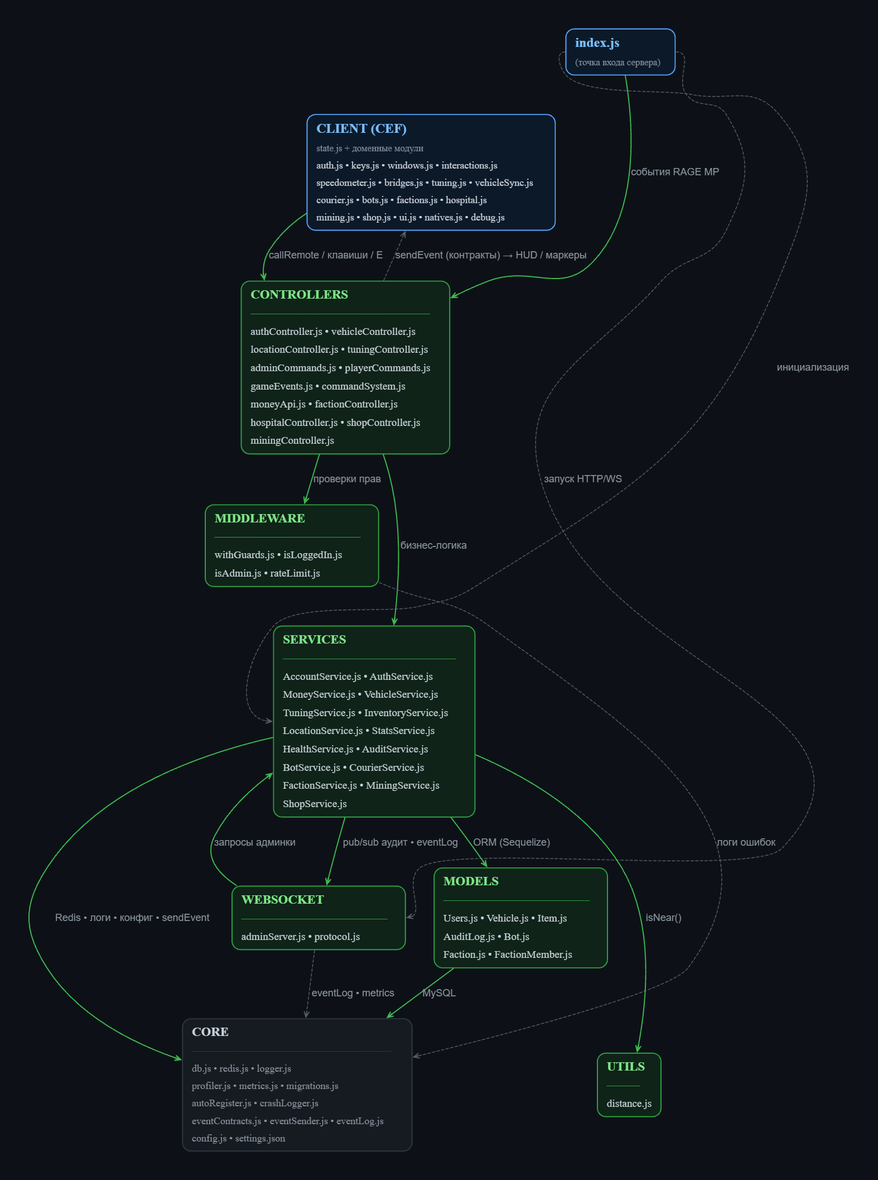
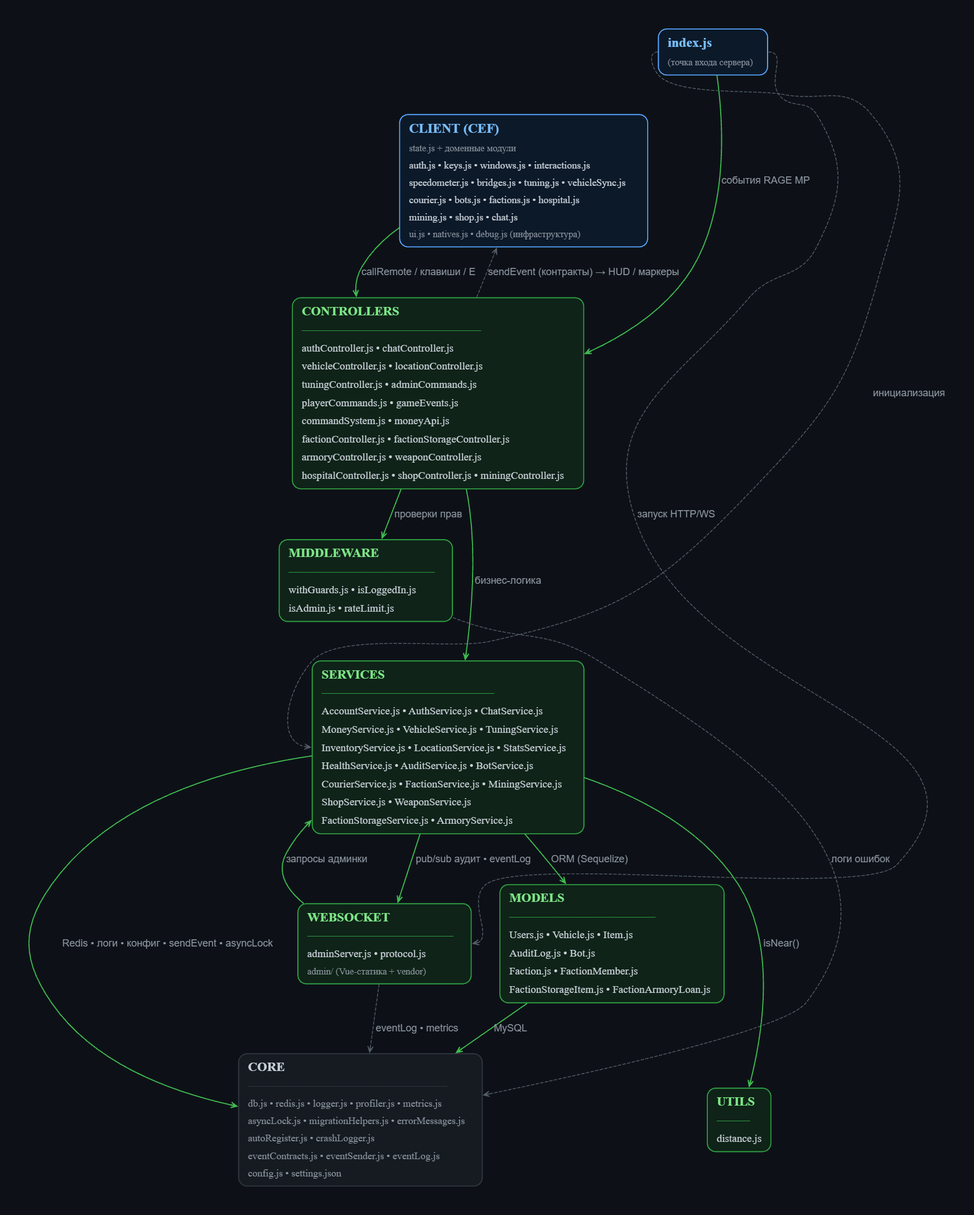
docs: обновление архитектуры, графы и README для релиза v1.16.0 + скрины

diff --git a/client_packages/factions.js b/client_packages/factions.js
@@ -27,11 +27,11 @@ mp.events.add('client:faction:open', () => {
 });
 
 mp.events.add('client:faction:moneyResult', (success, errorOrKind) => {
-    notify(String(
-        success
-            ? '!{#4CAF50}Операция с кассой выполнена.'
-            : `!{#FF3333}Ошибка: ${errorOrKind}`
-    ));
+    notify(
+        String(
+            success ? '!{#4CAF50}Операция с кассой выполнена.' : `!{#FF3333}Ошибка: ${errorOrKind}`
+        )
+    );
 });
 
 mp.events.add('client:faction:memberResult', (success, message) => {

diff --git a/docs/architecture.md b/docs/architecture.md
@@ -10,7 +10,7 @@
 ## Обзор слоёв
 
 ```text
-client_packages (мосты, клавиши, маркеры)
+client_packages (мосты, клавиши, маркеры, чат)
 ↕  mp.events / callRemote
 controllers (тонкие обработчики)   ←   middleware (guards, rate-limit)
 ↓
@@ -18,42 +18,43 @@ services (бизнес-логика)           ←   websocket/adminServer (ад
 ↓
 models (Sequelize, ленивая инициализация)
 ↓
-MySQL ← core/db   •   Redis ← core/redis
+MySQL ← core/db   •   Redis ← core/redis   •   asyncLock ← core/asyncLock
 ```
 
 ## Сервер
 
-### `controllers/` — тонкие обработчики (16 файлов)
+### `controllers/` — тонкие обработчики (17 файлов)
 
-| Файл                          | Ответственность                                                |
-| ----------------------------- | -------------------------------------------------------------- |
-| `commandSystem.js`            | диспетчер команд: `registerCommand` + `playerCommand`          |
-| `moneyApi.js`                 | денежные методы `mp.Player` (БД + память + HUD)                |
-| `authController.js`           | вход/регистрация, выход с сохранением                          |
-| `gameEvents.js`               | события игрока: смерть, курьер, статистика                     |
-| `playerCommands.js`           | `/pay`, `/kill`, `/endwork`                                    |
-| `adminCommands.js`            | 10 админ-команд (`/checkban` … `/bench`)                       |
-| `vehicleController.js`        | покупка, спавн, заправка                                       |
-| `locationController.js`       | семья `*:requestPos` — координаты 5 локаций                    |
-| `tuningController.js`         | LSC: вход в зону, покупка, выход                               |
-| `factionController.js`        | фракции: запрос инфо, касса                                    |
-| `factionStorageController.js` | семейный склад: deposit/withdraw с проверкой ранга и дистанции |
-| `armoryController.js`         | семейный арсенал: займы стволов из склада семьи                |
-| `weaponController.js`         | оружие: `/gun`, `/holster`, `/guns`, перезарядка по R          |
-| `hospitalController.js`       | лечение в больнице                                             |
-| `shopController.js`           | магазин: конфиг и покупка                                      |
-| `miningController.js`         | шахта: камни, добыча, продажа руды                             |
+| Файл                          | Ответственность                                                                                       |
+| ----------------------------- | ----------------------------------------------------------------------------------------------------- |
+| `commandSystem.js`            | диспетчер команд: `registerCommand` + `dispatchCommand` + `visibleCommands`                           |
+| `moneyApi.js`                 | денежные методы `mp.Player` (БД + память + HUD)                                                       |
+| `authController.js`           | вход/регистрация, выход с сохранением, per-instance `outputChatBox`, `miningService.endWork` при quit |
+| `chatController.js`           | кастомный чат: каналы, `/help`, `/a`, роутинг `outputChatBox` (лента/toast)                           |
+| `gameEvents.js`               | события игрока: смерть, курьер, статистика                                                            |
+| `playerCommands.js`           | `/pay`, `/kill`, `/endwork`                                                                           |
+| `adminCommands.js`            | 10 админ-команд (`/checkban` … `/bench`)                                                              |
+| `vehicleController.js`        | покупка, спавн, заправка                                                                              |
+| `locationController.js`       | семья `*:requestPos` — координаты 5 локаций                                                           |
+| `tuningController.js`         | LSC: вход в зону, покупка, выход                                                                      |
+| `factionController.js`        | фракции: запрос инфо, касса, `/fam`                                                                   |
+| `factionStorageController.js` | семейный склад: deposit/withdraw с проверкой ранга и дистанции                                        |
+| `armoryController.js`         | семейный арсенал: займы стволов из склада семьи                                                       |
+| `weaponController.js`         | оружие: `/gun`, `/holster`, `/guns`, перезарядка по R                                                 |
+| `hospitalController.js`       | лечение в больнице                                                                                    |
+| `shopController.js`           | магазин: конфиг и покупка                                                                             |
+| `miningController.js`         | шахта: камни, добыча, продажа руды                                                                    |
 
 ### `middleware/` — проверки прав и error boundary (4)
 
 - `withGuards` — цепочка проверок + единый error boundary
 - `isLoggedIn`, `isAdmin` — фабрики guard'ов
-- `rateLimit` — Redis-счётчики, fail open, коалесценция нарушений через AuditService
+- `rateLimit` — Redis-счётчики, fail open, коалесценция нарушений через AuditService; предупреждение уходит в bottom-toast (`{ toast: true }`)
 
-### `services/` — бизнес-логика (18)
+### `services/` — бизнес-логика (19)
 
-Account, Auth, Money, Vehicle, Tuning, Inventory, Location, Stats, Health, Audit, Bot, Courier, Faction, FactionStorage, Armory, Mining, Shop, Weapon.
-Сервисы не знают про `mp.*`, кроме осознанных game-world сервисов (Vehicle, Tuning, Bot, Courier) — это помечено в их шапках.
+Account, Auth, Money, Vehicle, Tuning, Inventory, Location, Stats, Health, Audit, Bot, Courier, Faction, FactionStorage, Armory, Mining, Shop, Weapon, **Chat**.
+Сервисы не знают про `mp.*`, кроме осознанных game-world сервисов (Vehicle, Tuning, Bot, Courier) — это помечено в их шапках. `ChatService` рассылает по каналам и разделяет ленту (`pushSystem`) и bottom-toast (`notify`).
 
 ### `models/` — Sequelize-модели, ленивые геттеры (9)
 
@@ -62,17 +63,20 @@ Users, Item, Vehicle, AuditLog, Bot, Faction, FactionMember, FactionStorageItem,
 `FactionStorageItem` — слоты семейного склада: `faction_id → factions.id` (CASCADE), предмет + количество + слот; удаление семьи очищает склад автоматически.
 `FactionArmoryLoan` — займы арсенала: `faction_id + account_id + item_id` (уникальный), количество + дата выдачи; CASCADE по семье и аккаунту.
 
-### Миграции (5)
+### Миграции (7)
 
 `001-initial-schema` (accounts, items, vehicles, audit_logs, bots),  
 `002-factions` (factions, faction_members),  
 `003-ensure-legacy-indexes`,  
 `004-faction-storage` (faction_storage_items),  
-`005-faction-armory` (faction_armory_loans).
+`005-faction-armory` (faction_armory_loans),  
+`006` — `UNIQUE(owner_id, slot)` в `items` (защита от дубля слота при гонке),  
+`007` — `UNIQUE(faction_id, slot)` в `faction_storage_items` через `ensureUniqueIndexGuarded`.  
+Все миграции идут через общий `core/migrationHelpers.js` (`ensureIndex`/`ensureUniqueIndexGuarded` идемпотентны, читают `information_schema`).
 
-### `core/` — инфраструктура: БД, кэш, логи, замеры, события
+### `core/` — инфраструктура: БД, кэш, логи, замеры, события, блокировки
 
-`db.js` (пул + initDB), `redis.js` (singleton), `logger.js` (асинхронный, combined/error), `profiler.js` (`perf_hooks`), `eventContracts.js` (контракты событий сервер→клиент с типами аргументов), `eventSender.js` (валидация + логирование), `eventLog.js` (кольцевой буфер 200 записей для админки).
+`db.js` (пул + initDB), `redis.js` (singleton), `logger.js` (асинхронный, combined/error), `profiler.js` (`perf_hooks`), `metrics.js` (Prometheus-exporter), `eventContracts.js` (контракты событий сервер→клиент с типами аргументов), `eventSender.js` (валидация + логирование), `eventLog.js` (кольцевой буфер 200 записей для админки), `autoRegister.js`, `crashLogger.js`, **`asyncLock.js`** (ключевой async-мьютекс: очередь по key, разные ключи параллельно), **`migrationHelpers.js`** (`ensureIndex`/`ensureUniqueIndexGuarded`), **`errorMessages.js`** (`humanizeError` — маппинг машинных кодов ошибок в читаемый текст).
 
 ## Клиентская инфраструктура событий
 
@@ -89,27 +93,36 @@ Users, Item, Vehicle, AuditLog, Bot, Faction, FactionMember, FactionStorageItem,
 ## Клиент (`client_packages/`)
 
 - `state.js` — общее состояние в `globalThis.UIState` (в клиенте RAGE MP нет `module.exports`)
-- 14 доменных модулей: `auth`, `keys`, `windows`, `interactions`, `speedometer`, `bridges`, `tuning`, `vehicleSync`, `courier`, `bots`, `factions`, `hospital`, `mining`, `shop`
+- 15 доменных модулей: `auth`, `keys`, `windows`, `interactions`, `speedometer`, `bridges`, `tuning`, `vehicleSync`, `courier`, `bots`, `factions`, `hospital`, `mining`, `shop`, **`chat`**
+- инфраструктурные: `ui.js`, `natives.js`, `debug.js`
 - `index.js` — только создание браузера и порядок `require`
+- `chat.js` экспортирует `globalThis.chat = { pushSystem, notify }`; `notify` ведёт в bottom-toast через событие `client:chat:notify`
+
+## UI-Server (Vue 3 SPA)
+
+- Одно браузерное окно на всю игру; `App.vue` держит состояние окон и фокус-трап
+- Компоненты: `Auth`, `Hud`, `Inventory`, `Phone`, `Dealership`, `CarCustom`, `Shop`, `MiningSell`, `HospitalWindow`, `Faction`, `Chat`, **`Toasts`**
+- `Chat.vue` — скроллируемая лента с появляющимся индикатором (без нативного скроллбара), автопрокрутка с уважением к чтению истории, Esc через глобальный `window`-слушатель (поэтапно: чат → окно, карта не открывается), сброс ленты при релоге
+- `Toasts.vue` — стек до 3 плашек внизу экрана, slide/fade, авто-скрытие 3 с, парсинг ведущего `!{#RRGGBB}`
 
 ## Веб-админка (`websocket/`)
 
-- HTTP (статика + `/login`) и WS на одном порту; JWT 8 ч, `admin_level >= 1`; битый токен → 4001/4003
-- `protocol.js` — типы сообщений: `get_table`, `update_cell`, `player_action`, `vehicle_action`, `delete_row`, `create_row`, `get_metrics`, `event_log_init`, `event_log`
-- Schema-driven формы: сервер шлёт `create_schema` — фронт генерирует формы сам
+- HTTP (статика + `/login`) и WS на одном порту; JWT 8 ч, `admin_level >= 1`; **ревалидация уровня по БД при handshake** (устаревший токен пониженного/удалённого админа не открывает соединение; 4001/4003)
+- `protocol.js` — типы сообщений: `get_table`, `update_cell`, `player_action`, `vehicle_action`, `delete_row`, `create_row`, `get_metrics`, `event_log_init`, `event_log`; `update_cell` даёт обратную связь `action_result`, пишет аудит при отказе и запрещает эскалацию `admin_level` выше своего
+- Schema-driven формы: сервер шлёт `create_schema` — фронт генерирует формы сам; слот предмета ограничен `InventoryConfig.size`
 - Whitelist редактируемых полей + серверная валидация; каждое действие → аудит
-- Карта CanvasMapper (**собственная библиотека**): тайловая пирамида 8K (z0..z5), LOD + LRU кэш, маркеры-спрайты, привязка через `GAME_BOUNDS`
+- Карта CanvasMapper (**собственная библиотека**): тайловая пирамида 8K (z0..z5), LOD + LRU кэш, маркеры-спрайты, привязка через `GAME_BOUNDS`; бандлы локализованы в `admin/vendor` (офлайн, без CDN)
 - Вкладка events: real-time лента из `eventLog`, фильтры, тумблер «только ошибки валидации», hover-панель с разбором аргументов ключ-значение
 - Живая лента аудита: pub/sub через `AuditService.subscribe`
-- `get_metrics` (WS) и HTTP `/metrics` — метрики: собственный Prometheus-exporter без внешних зависимостей
-- Вкладка metrics с автообновлением (15 с); аудит — серверная пагинация
+- `get_metrics` (WS) и публичный HTTP `/metrics` — метрики: собственный Prometheus-exporter без внешних зависимостей
+- Вкладка metrics с автообновлением (15 с); `openTab` гасит metrics-таймер до ранних return (нет фонового опроса БД с неактивной вкладки); аудит — серверная пагинация
 - Автореконнект с экспоненциальным бэкоффом; 4001/4003 — без реконнекта
 - Тайлы карты (`tiles/`) генерируются CLI из `map.png`, **не в репозитории** (`npm run build:tiles`)
 
 ## Ключевые решения
 
 1. **Деньги** — атомарный SQL `UPDATE … WHERE money >= X`; составные операции — внешние транзакции.
-2. **Инвентарь** — паттерн «план → транзакция → память»: память мутирует только после commit.
+2. **Инвентарь** — паттерн «план → транзакция → память»: память мутирует только после commit; `UNIQUE(owner_id, slot)` как страховка на уровне БД.
 3. **Server-authoritative визуал** — клиент не применяет тюнинг локально.
 4. **Rate-limit** — два режима (кулдаун / анти-флуд); серия нарушений сворачивается в одну строку аудита с `repeats`.
 5. **Кэш-aside** — экономика в Redis (TTL 60 с); в hot path честный замер реальной операции, синтетический бенчмарк — on-demand (`/bench`).
@@ -118,16 +131,20 @@ Users, Item, Vehicle, AuditLog, Bot, Faction, FactionMember, FactionStorageItem,
 8. **Координаты в одном месте** — `config.js` → `LocationService` → клиент и админка.
 9. **Типобезопасность событий** — все `player.call` заменены на `sendEvent` с валидацией контрактов; битое событие не уйдёт клиенту, будет видно в админке.
 10. **Самописный logger** — winston несовместим с окружением RAGE MP (старый Node, `node:`-импорты).
-11. **Склад семьи** — общие слоты фракции: повторная проверка места и остатка под блокировкой строк (`SELECT … FOR UPDATE`), компенсация при сбое транзакции (предмет возвращается игроку).
+11. **Склад семьи** — общие слоты фракции: повторная проверка места и остатка под `asyncLock(factionId)` + транзакция с блокировкой строк, компенсация при сбое (предмет возвращается игроку).
 12. **Оружие через инвентарь** — ствол как предмет инвентаря; перезарядка добирает резерв до `maxClip`; при holster патроны возвращаются в резерв.
-13. **Арсенал семьи** — займы стволов из склада под учётную запись: лимит займов и права по рангам из конфига, добор в существующий займ не тратит слот, авторасчёт на смерти (`ArmoryService.returnAll` в `playerDeath`).
+13. **Арсенал семьи** — займы стволов из склада под учётную запись: лимит займов и права по рангам из конфига, добор в существующий займ не тратит слот, авторасчёт на смерти (`ArmoryService.returnAll` в `playerDeath`), `asyncLock(accountId)` на лимит активных займов.
+14. **Сериализация гонок** — `core/asyncLock.js`: очередь промисов по ключу сущности; `withLock(key, fn)` закрывает read-modify-write в инвентаре (`accountId`), складе (`factionId`), арсенале (`accountId`), шахте (резерв камня до `await`). Вложенные локи с другим ключом безопасны (склад внутри арсенала берёт `factionId`, арсенал — `accountId`).
+15. **Роутинг уведомлений** — `outputChatBox(text, { toast })`: явный флаг вместо эвристики по длине (длина ломалась на `/help`, где каждая строка списка короткая, но список — лента). По умолчанию лента; короткие фидбеки помечаются `{ toast: true }` и уходят в `ChatService.notify` → `client:chat:notify` → `Toasts.vue`. Клиентские модули используют симметричный `chat.notify`.
+16. **Человекочитаемые ошибки** — `core/errorMessages.js` (`humanizeError`) маппит машинные коды сервисов (`too_fast`, `inventory_full`, `not_enough_items`, …) в строки для игрока, чтобы в плашках не мелькали идентификаторы.
+17. **Идемпотентные миграции** — все индексы через `core/migrationHelpers.js` (`ensureIndex`/`ensureUniqueIndexGuarded` читают `information_schema`), контракт един для 001–007; убран дубль индекса в 004.
 
 ## Тесты и CI
 
-- Сервер: Jest (MoneyService, InventoryService, AuditService, rateLimit, FactionService, FactionStorageService, ArmoryService, WeaponService, eventContracts)
-- Клиент: глобальный мок `mp.*` + тестовый `__trigger` (`__tests__/setup.js`)
+- Сервер: Jest (MoneyService, InventoryService, AuditService, rateLimit, FactionService, FactionStorageService, ArmoryService, WeaponService, ChatService, eventContracts)
+- Клиент: глобальный мок `mp.*` + тестовый `__trigger` (`__tests__/setup.js`); моки `chat`/`keys`/`windows`/`speedometer`/`tuning`/`auth`
 - Корневой `npm test` гоняет оба пакета (`npm --prefix packages/main test && npm --prefix client_packages test`)
-- CI: `syntax-check` (сервер + клиент), `server-tests`, `client-tests`
+- CI: `pull_request` + `push` в master, `concurrency` (отмена устаревших прогонов), таймауты по jobs; `syntax-check` (сервер + клиент), `ui-build` (сборка Vite — ловит ошибки Vue-шаблонов до мержа), `server-tests`, `client-tests`, `integration-tests`, `lint`, `docs-freshness` (`git diff --exit-code docs/events.md`)
 - Интеграционные тесты: реальные MySQL (`ragemp_test`) и Redis (DB 1), миграции в globalSetup, последовательный прогон (`--runInBand`), полный дроп БД в teardown; env-приоритет над settings.json
 - `eventContracts.test.js` — тест-инвентаризация: все `sendEvent` имеют контракты, нет мёртвых контрактов
 
@@ -138,19 +155,22 @@ RAGEMP_server/
 ├── packages/main/
 │   ├── index.js             точка входа
 │   ├── config.js            игровые конфиги (координаты, цены)
-│   ├── core/                db, redis, logger, profiler, eventContracts/Sender/Log
-│   ├── controllers/         16 файлов по доменам
-│   ├── services/            18 сервисов
+│   ├── core/                db, redis, logger, profiler, metrics, asyncLock,
+│   │                        migrationHelpers, errorMessages, eventContracts/Sender/Log,
+│   │                        autoRegister, crashLogger
+│   ├── controllers/         17 файлов по доменам
+│   ├── services/            19 сервисов
 │   ├── middleware/          4 файла
 │   ├── models/              9 моделей
+│   ├── migrations/          7 миграций
 │   ├── utils/               distance.js
-│   ├── websocket/           админка: adminServer, protocol, admin/
-│   └── __tests__/           тесты сервера
+│   ├── websocket/           админка: adminServer, protocol, admin/ (+ admin/vendor)
+│   └── __tests__/           тесты сервера (+ integration/)
 ├── client_packages/
 │   ├── index.js, state.js   вход + общее состояние
-│   ├── 14 доменных модулей
+│   ├── 15 доменных модулей
 │   └── __tests__/           тесты клиента + мок mp.*
-├── UI-Server/               Vue 3 SPA (Vite)
-├── docs/                    architecture.md, графы, events.md (авто-ген)
-── .github/workflows/       CI
+├── UI-Server/               Vue 3 SPA (Vite): App.vue + компоненты (Chat, Toasts, …)
+├── docs/                    architecture.md, architecture-graph.png, deps-full.dot, events.md (авто-ген)
+└── .github/workflows/       CI
 ```

diff --git a/README.md b/README.md
@@ -4,7 +4,7 @@
 ![License](https://img.shields.io/github/license/akak1y/RAGEMP_server)
 ![Release](https://img.shields.io/github/v/release/akak1y/RAGEMP_server)
 
-Каркас игрового сервера для **RAGE Multiplayer (GTA V)**: послойная архитектура (контроллеры → сервисы → модели), server-authoritative логика, атомарные SQL-транзакции, Redis-кэширование и real-time веб-админка.
+Каркас игрового сервера для **RAGE Multiplayer (GTA V)**: послойная архитектура (контроллеры → сервисы → модели), server-authoritative логика, атомарные SQL-транзакции, сериализация гонок через async-мьютекс, Redis-кэширование и real-time веб-админка.
 
 **Оглавление:** [Стек](#-стек-технологий) • [Производительность](#-производительность) • [Архитектура](#-архитектура) • [Ключевые фичи](#-ключевые-фичи) • [Веб-админка](#-веб-админка) • [Установка](#-установка-и-запуск) • [Точки роста](#-точки-роста)
 
@@ -15,6 +15,7 @@
 - **Бэкенд:** Node.js, RAGE MP API
 - **База данных (ORM):** MySQL + **Sequelize ORM** — никаких «сырых SQL строками»
 - **Кэширование:** **Redis** — хранение в ОЗУ для разгрузки MySQL
+- **Конкурентность:** ключевой async-мьютекс `core/asyncLock.js` — сериализация read-modify-write на одну сущность
 - **Интерфейсы (CEF):** Vue 3 (Composition API, Vite), архитектура SPA — одно браузерное окно на всю игру
 - **Веб-админка:** WebSocket + JWT, live-таблицы и карта игроков (CanvasMapper)
 - **Тесты:** Jest — сервер и клиент (глобальный мок `mp.*` API), CI на GitHub Actions
@@ -39,9 +40,10 @@
 
 ![Архитектурный граф зависимостей](docs/architecture-graph.png)
 
-- **16 контроллеров** по доменам, **18 сервисов**, **4 middleware**, **9 моделей**
+- **17 контроллеров** по доменам, **19 сервисов**, **4 middleware**, **9 моделей**, **7 миграций**
 - **Server-authoritative:** клиент не диктует цены и не применяет визуал без подтверждения сервера
 - **Транзакции:** «план → транзакция → память» — деньги и инвентарь атомарны
+- **Сериализация гонок:** `asyncLock` закрывает read-modify-write в инвентаре, складе семьи, арсенале и шахте; разные сущности идут параллельно
 - **Единый источник правды:** координаты и цены живут в `config.js`
 
 Подробный разбор слоёв, паттернов и решений — в [`docs/architecture.md`](docs/architecture.md).
@@ -52,16 +54,18 @@
 ## 🎮 Ключевые фичи
 
 - **Фракции (Семья)** — система с рангами (Шестёрка → Босс), кассой, бонусами курьерам (+20% зарплата, +5% в казну семьи); окно открывается по E на метке базы или `/fam` для админа
-- **Семейный склад** — общие слоты предметов у базы: сдача и выдача по рангам из конфига, контроль стаков и вместимости, аудит каждой операции, защита от гонок через `SELECT … FOR UPDATE`
-- **Семейный арсенал** — займы стволов из склада семьи под учётную запись: лимит займов и права по рангам, добор в существующий займ без траты слота, авторасчёт на смерти (что в инвентаре — возвращается, чего нет — списано как боевая потеря)
+- **Семейный склад** — общие слоты предметов у базы: сдача и выдача по рангам из конфига, контроль стаков и вместимости, аудит каждой операции, защита от гонок через `asyncLock(factionId)`
+- **Семейный арсенал** — займы стволов из склада семьи под учётную запись: лимит займов и права по рангам, добор в существующий займ без траты слота, авторасчёт на смерти; защита от гонок через `asyncLock(accountId)`
 - **Оружие** — серверная модель поверх инвентаря: достать/убрать (`/gun`, `/holster`), перезарядка по R до `maxClip`, патроны как предмет инвентаря, возврат остатка при holster
-- **Работа «Шахтёр»** — ченнелинг с серверным античитом по времени и дистанции, исчерпаемые камни со случайным респавном, продажа руды боту
+- **Работа «Шахтёр»** — ченнелинг с серверным античитом по времени и дистанции, исчерпаемые камни со случайным респавном, резерв камня до `await`, продажа руды боту
 - **Магазин 24/7** — config-driven ассортимент и цены, возврат денег при полном инвентаре
 - **Больница** — платное лечение, респаун после смерти с таймером и его отменой при выходе
 - **Тюнинг транспорта (LSC)** — серверные цены, бинарная система «купил / не купил», синхронизация между игроками через DataHandler'ы
 - **Топливо и заправка** — расход от скорости, глушение на нуле, заправка на станции с оплатой за литры
 - **Работа «Курьер»** — стейт-машина заказов (pickup → delivery → return), оплата по дистанции, античит по времени доставки
-- **Инвентарь** — стакинг с `maxStack`, проверка вместимости, атомарные транзакции
+- **Инвентарь** — стакинг с `maxStack`, проверка вместимости, атомарные транзакции, `UNIQUE(owner_id, slot)`
+- **Кастомный чат** — полностью замещает встроенный: каналы общий/семья/админ с кнопками, цветные сообщения (`!{#RRGGBB}`), скроллируемая история с появляющимся индикатором и автопрокруткой, `/help` по правам игрока, сброс ленты при релоге, поэтапный Esc (сначала чат, затем окно) без открытия карты
+- **Bottom-toast уведомления** — короткие фидбеки действий («недостаточно денег», «вы умерли», «камень исчерпан») всплывают плашкой внизу вместо ленты; серверный `outputChatBox` роутит по явному флагу `{ toast: true }`, машинные коды ошибок маппятся в читаемый текст (`core/errorMessages.js`)
 - **Веб-админка** — live-таблицы, карта игроков на CanvasMapper, real-time лента событий, schema-driven формы
 - **Типобезопасность событий** — контракты всех событий, валидация до отправки, авто-документация `npm run docs:events`
 - **UX** — защита чата от конфликтов клавиш, заморозка персонажа при открытом UI, фокус-трап с ESC
@@ -76,15 +80,15 @@ Real-time панель в браузере (`http://localhost:8081`): JWT-лог
 <details>
 <summary>Подробнее о веб-админке</summary>
 
-- JWT-авторизация (8 часов), токен проверяется при WS-handshake (4001/4003)
+- JWT-авторизация (8 часов), токен ревалидируется по БД при WS-handshake (4001/4003)
 - Live-таблицы обновляются по WebSocket без перезагрузки страницы
-- Редактирование ячеек: whitelist полей + серверная валидация
+- Редактирование ячеек: whitelist полей + серверная валидация + обратная связь `action_result` + аудит неудачных правок + запрет эскалации `admin_level` выше своего
 - Действия над игроками (хил/убить/удалить) и авто (переспавн/удалить)
-- Создание строк через серверную схему (schema-driven формы)
+- Создание строк через серверную схему (schema-driven формы); слот предмета ограничен реальным размером инвентаря
 - Все изменения пишутся в аудит (web_edit / web_action / web_create)
 - Серверная пагинация аудита (50 строк на страницу)
-- Защита от path traversal при раздаче статики
-- Вкладка metrics + endpoint `/metrics` (Prometheus-формат, собственный exporter без зависимостей)
+- Защита от path traversal при раздаче статики; Vue/CanvasMapper локализованы в `admin/vendor` (офлайн-стенд, без CDN)
+- Вкладка metrics + публичный endpoint `/metrics` (Prometheus-формат, собственный exporter без зависимостей)
 - Вкладка events — real-time лента 200 последних событий, фильтры по имени/игроку, тумблер «только ошибки валидации», hover-панель с разбором аргументов ключ-значение
 - Карта на CanvasMapper (**собственная библиотека**) — тайловая пирамида 8K, маркеры игроков с плавным движением, эмодзи-иконки локаций
 - Авто-реконнект WS с экспоненциальным бэкоффом; 4001/4003 — без реконнекта
@@ -117,8 +121,11 @@ Real-time панель в браузере (`http://localhost:8081`): JWT-лог
 | `/gun [key]`                              | Достать оружие из инвентаря                                           |
 | `/holster`                                | Убрать оружие из рук                                                  |
 | `/guns`                                   | Список своего оружия                                                  |
+| `/a [сообщение]`                          | Сообщение в админ-чат                                                 |
+| `/f [сообщение]`                          | Сообщение в семейный чат                                              |
+| `/help`                                   | Список команд, доступных по правам игрока                             |
 
-**Горячие клавиши:** `I` — инвентарь, `P` — телефон, `E` — взаимодействие, `R` — перезарядка, `ESC` — закрыть окно, `F5` — debug (админ), `Ё` — камера в LSC.
+**Горячие клавиши:** `I` — инвентарь, `P` — телефон, `T` — чат, `E` — взаимодействие, `R` — перезарядка, `ESC` — закрыть чат/окно поэтапно, `F5` — debug (админ), `Ё` — камера в LSC.
 
 </details>
 
@@ -141,8 +148,9 @@ npm run dev   # Vite на http://localhost:5173
 
 1. Скопируй `packages/main/settings.example.json` → `settings.json` и замени плейсхолдеры на свои данные (пароли, хосты). **Важно:** `settings.json` уже в `.gitignore` — он не попадёт в репозиторий.
 2. В `packages/main` выполни `npm run migrate` — создастся БД и все таблицы (миграции).
-3. Выполни `npm run build:tiles` — карта админки генерируется из `map.png` один раз
-4. Запусти сервер.
+3. Выполни `npm run build:tiles` — карта админки генерируется из `map.png` один раз.
+4. Скачай бандлы админки один раз (локализованы, не в CDN): `packages/main/websocket/admin/vendor/` (vue.global.prod.js, canvasmapper.umd.js).
+5. Запусти сервер.
 
 ---
 
@@ -154,7 +162,8 @@ npm run test:int  # интеграционные тесты (реальные My
 npm run test:all  # вообще всё
 ```
 
-- **200+ unit-тестов** на сервере и клиенте, покрытие сервисов ~90%
+- **250+ unit-тестов** на сервере и клиенте, покрытие сервисов ~90%
+- **Тесты на гонки:** `inventoryConcurrency`, `factionStorageConcurrency`, `armoryConcurrency` — параллельные read-modify-write под `asyncLock`
 - **6 интеграционных**: атомарность денег, ON DELETE CASCADE, кэш-aside экономика, rate-limit (INCR/TTL), полные циклы шахты и магазина
 - **Тест-инвентаризация событий:** `eventContracts.test.js` — все `sendEvent` имеют контракты, нет мёртвых контрактов
 - **Изоляция:** отдельная БД `ragemp_test` + Redis DB 1, `--runInBand`, полный дроп БД в teardown
@@ -163,8 +172,8 @@ npm run test:all  # вообще всё
 
 ## 📈 Точки роста
 
+- [ ] Личные сообщения (`/pm`), автокомплит ников, спам-фильтр, персист ленты в Redis, модерация сообщений
 - [ ] Фракции: ранг-специфичные работы (полиция/медик), система приглашений/исключений в UI
-- [ ] Глобальный чат с каналами (общий/семья/админ)
 - [ ] Экономика: банки с процентами, аукцион машин
 - [ ] Крафт/производство: руда → металл → патроны → стволы
 
